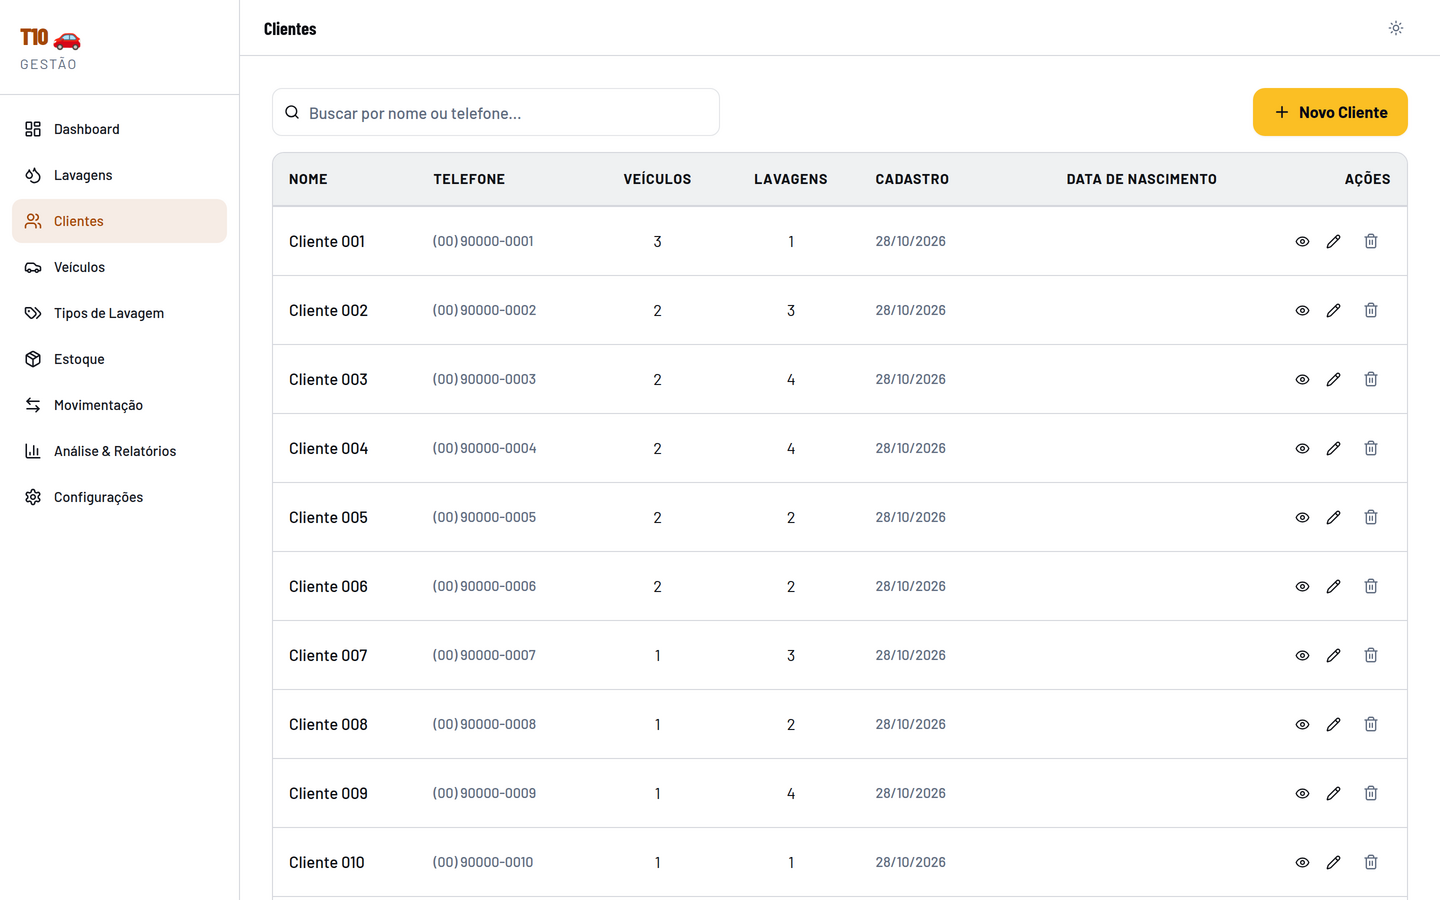
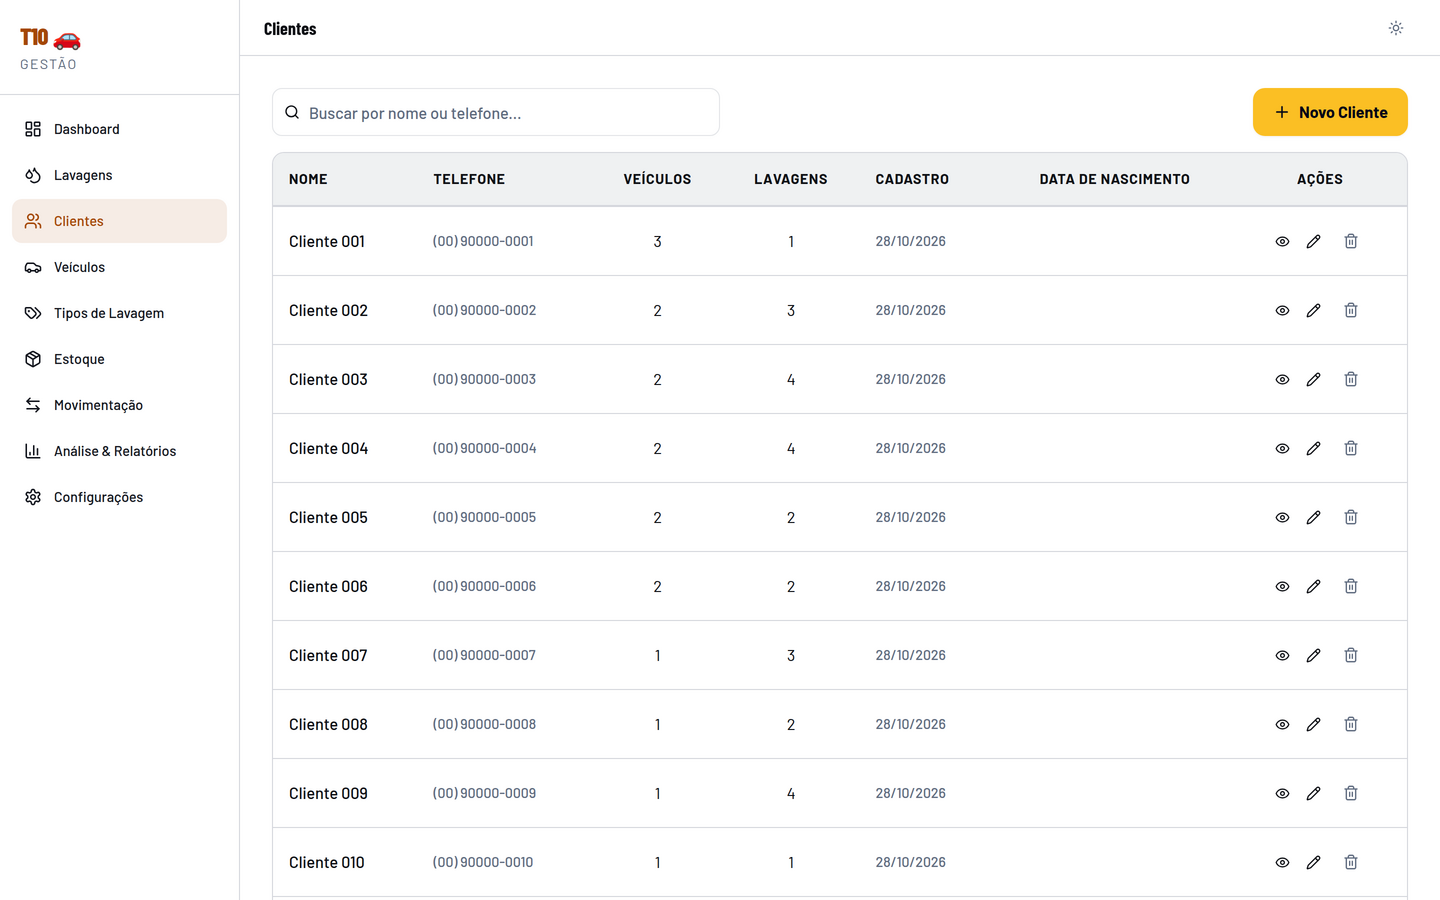
fix(clientes): salva edicao com data de nascimento nula
O dataset demo grava data_nascimento = null. Enio_Dev preencheu o estado
com esse valor e chamou .trim() no submit, o que estourava TypeError ao
salvar qualquer cliente sem data de nascimento.

- preenche o input com ?? ""
- envia null quando o campo fica vazio (mesma semantica do backend)
- teste de regressao cobre data nula, data preenchida e maxLength=60
- regenera apenas 04-clientes/clientes-listagem (alinhamento de colunas)

diff --git a/frontend/src/test/editar-cliente.test.tsx b/frontend/src/test/editar-cliente.test.tsx
@@ -1,0 +1,89 @@
+/**
+ * Regressão de `EditarCliente`.
+ *
+ * `data_nascimento` é opcional (`string | null`) e o dataset — inclusive o
+ * demo, por exigência do portão de privacidade — grava `null`. Antes da
+ * correção, o formulário jogava o nulo direto no `useState` e o `handleSubmit`
+ * chamava `.trim()`, o que estourava `TypeError` ao salvar qualquer cliente
+ * sem data de nascimento.
+ */
+import { describe, it, expect, vi, beforeEach } from 'vitest';
+import { render, screen, fireEvent } from '@testing-library/react';
+import { MemoryRouter, Routes, Route } from 'react-router-dom';
+import EditarCliente from '@/pages/EditarCliente';
+
+const app = vi.hoisted(() => ({
+  cliente: {
+    id: 'c1',
+    nome: 'Cliente Um',
+    telefone: '00999990000',
+    data_nascimento: null as string | null,
+  },
+  updateCliente: vi.fn(),
+}));
+
+vi.mock('@/contexts/AppContext', () => ({
+  useApp: () => ({
+    getCliente: () => app.cliente,
+    updateCliente: app.updateCliente,
+  }),
+}));
+
+const renderizar = () =>
+  render(
+    <MemoryRouter initialEntries={['/clientes/c1/editar']}>
+      <Routes>
+        <Route path="/clientes/:id/editar" element={<EditarCliente />} />
+        <Route path="/clientes/:id" element={<h1>Detalhe do cliente</h1>} />
+      </Routes>
+    </MemoryRouter>,
+  );
+
+beforeEach(() => {
+  app.updateCliente.mockClear();
+  app.cliente.data_nascimento = null;
+});
+
+describe('EditarCliente — data de nascimento opcional', () => {
+  it('salva cliente com data nula sem lançar erro', async () => {
+    renderizar();
+
+    fireEvent.change(screen.getByLabelText(/Nome Completo/i), {
+      target: { value: 'Cliente Editado' },
+    });
+    fireEvent.click(screen.getByRole('button', { name: /Salvar Alterações/i }));
+
+    expect(app.updateCliente).toHaveBeenCalledWith(
+      'c1',
+      expect.objectContaining({
+        nome: 'Cliente Editado',
+        data_nascimento: null,
+      }),
+    );
+    expect(await screen.findByText('Detalhe do cliente')).toBeInTheDocument();
+  });
+
+  it('envia a data digitada quando preenchida', () => {
+    app.cliente.data_nascimento = '1990-05-04';
+    renderizar();
+
+    fireEvent.change(screen.getByLabelText(/Data de Nascimento/i), {
+      target: { value: '1990-05-05' },
+    });
+    fireEvent.click(screen.getByRole('button', { name: /Salvar Alterações/i }));
+
+    expect(app.updateCliente).toHaveBeenCalledWith(
+      'c1',
+      expect.objectContaining({ data_nascimento: '1990-05-05' }),
+    );
+  });
+
+  it('limita o nome a 60 caracteres', () => {
+    renderizar();
+
+    expect(screen.getByLabelText(/Nome Completo/i)).toHaveAttribute(
+      'maxlength',
+      '60',
+    );
+  });
+});

diff --git a/frontend/src/pages/EditarCliente.tsx b/frontend/src/pages/EditarCliente.tsx
@@ -33,7 +33,7 @@ export default function EditarCliente() {
                 : `(${numeros.slice(0, 2)}) ${numeros.slice(2, 7)}-${numeros.slice(7, 11)}`
           : "";
       setTelefone(formatted);
-      setData(cliente.data_nascimento);
+      setData(cliente.data_nascimento ?? "");
     }
     setLoading(false);
   }, [cliente, setTelefone]);
@@ -44,7 +44,7 @@ export default function EditarCliente() {
     updateCliente(id, {
       nome: nome.trim(),
       telefone: telefone.trim(),
-      data_nascimento: data_nascimento.trim(),
+      data_nascimento: data_nascimento.trim() || null,
     });
     navigate(`/clientes/${id}`);
   };
